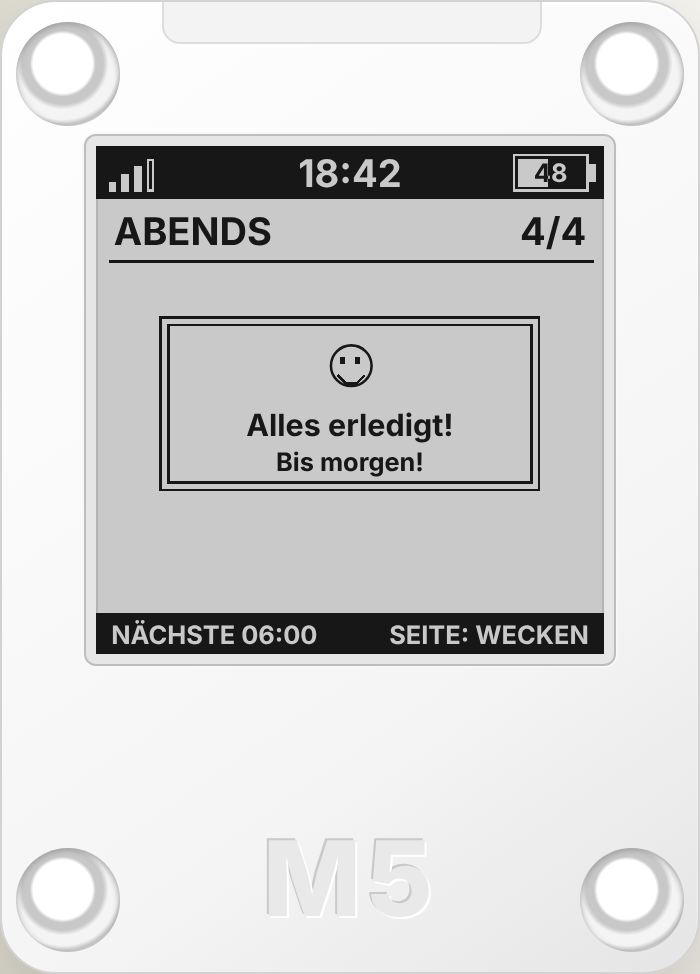
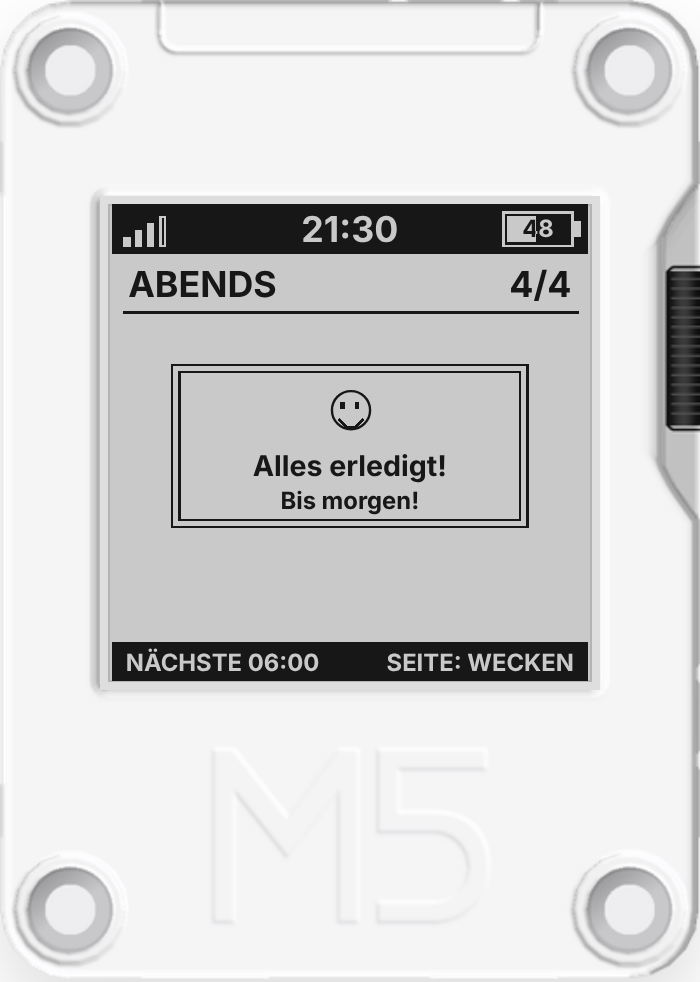
Re-render README demo screenshots from the current mockup
Claude-Session: https://claude.ai/code/session_01GaxigSVWS2qQ9ov1GZw4eY

diff --git a/CHANGELOG.md b/CHANGELOG.md
@@ -24,7 +24,7 @@
 - GitHub Pages start page opens the demo instead of a rendered copy of the README; the demo page gets a short intro, a setup-guide link and a "how it works" strip. README shows two demo screenshots and a prominent demo link.
 - Static IP for both devices from new secrets (`todo_3310_ip`, `clock_3310_ip`, `wifi_gateway`, `wifi_subnet`, `wifi_dns`). Skipping DHCP shortens every wake of `todo_3310`. **Breaking:** add these secrets, or delete the `manual_ip:` block to keep DHCP.
 - Mockup device frame rebuilt from the CoreInk case model.
-- README: photos of the device on real hardware, including the NFC sticker behind the e-paper panel; status updated.
+- README: photos of the device on real hardware, including the NFC sticker behind the e-paper panel; status updated. Demo screenshots re-rendered from the current mockup (new device frame, battery icon).
 - Battery icon fills to the battery level; the percentage on top switches between black and white at the fill edge so it stays readable at any level. The mockup has a battery slider to try it.
 
 ## dayparts and HA to-do lists
